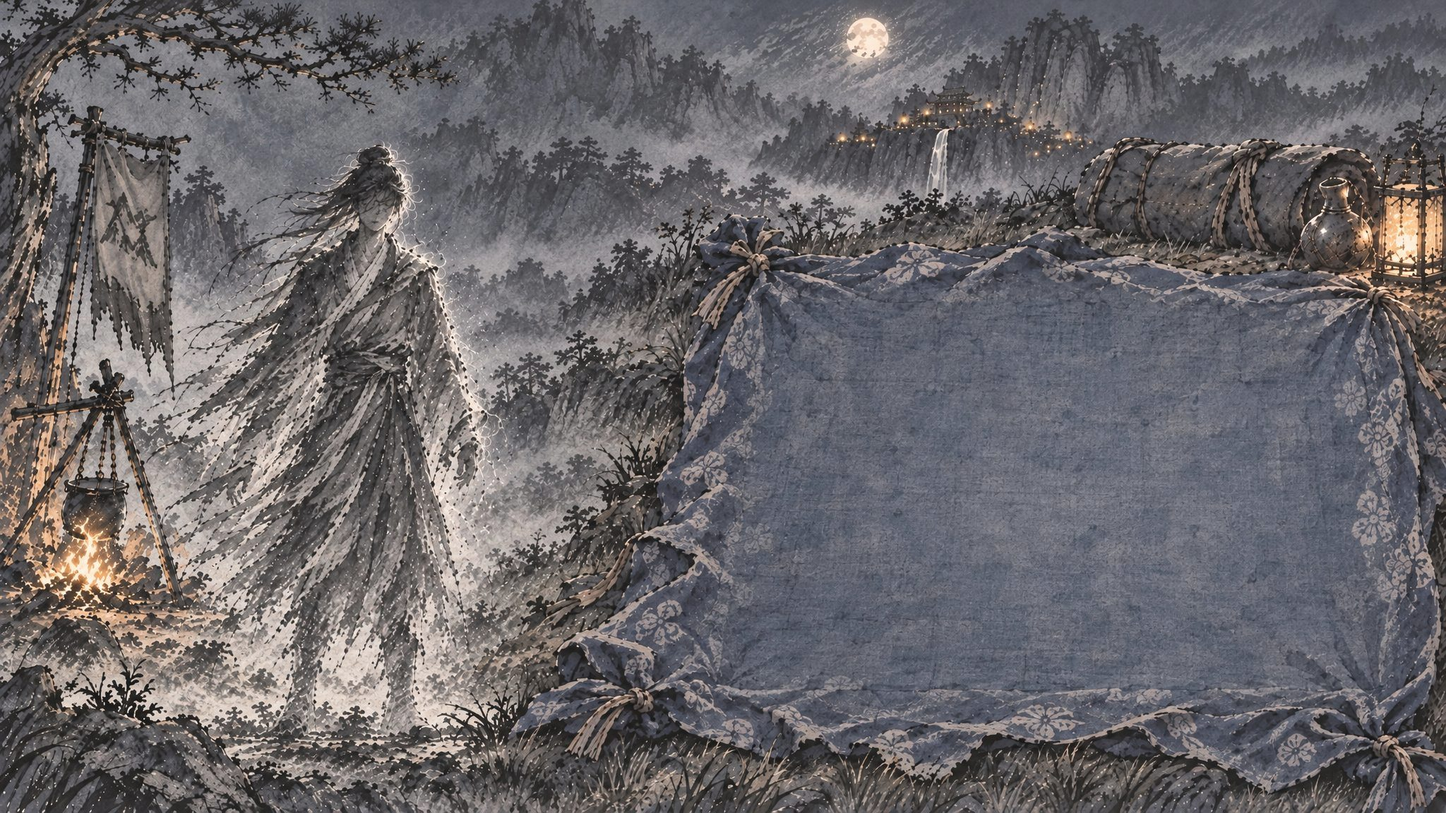
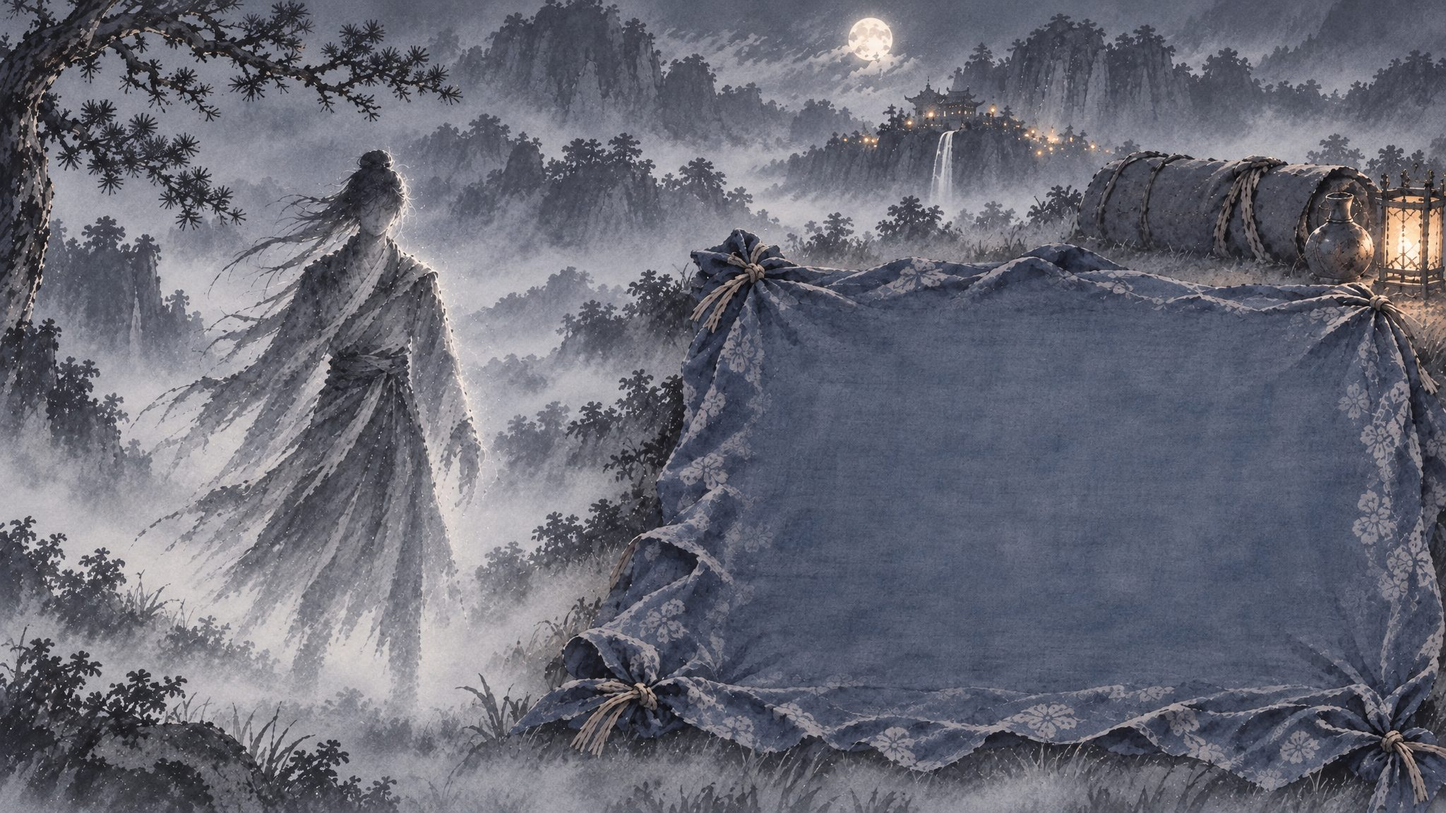
docs(bag-wugong): 原型第三版——雾气留白底图、收敛叠加元素，附据点门派重绘样张

diff --git a/docs/design/bag-wugong-prototype.html b/docs/design/bag-wugong-prototype.html
@@ -51,8 +51,8 @@ button { font: inherit; color: inherit; }
 .scene.off { opacity: 0; pointer-events: none; visibility: hidden; }
 .pic { position: absolute; left: var(--pl); top: var(--pt); width: var(--pw); aspect-ratio: 16 / 9; }
 .pic > .bg { position: absolute; left: 0; right: 0; top: -38.89%; height: 177.78%; background: center / 100% 100% no-repeat; }
-.vig { position: absolute; inset: 0; pointer-events: none; box-shadow: inset 0 0 90px 30px #0b0d12;
-  background: linear-gradient(to bottom, oklch(0.1 0.01 262 / .8), transparent 22%); }
+.vig { position: absolute; inset: 0; pointer-events: none; box-shadow: inset 0 0 60px 10px oklch(0.1 0.01 262 / .7);
+  background: linear-gradient(to bottom, oklch(0.1 0.01 262 / .45), transparent 16%); }
 .head { position: absolute; left: 44px; right: 44px; top: 26px; z-index: 5; display: flex; align-items: flex-start; pointer-events: none; }
 .head > * { pointer-events: auto; }
 .head h1 { margin: 0; font-family: var(--font-display); font-size: 34px; letter-spacing: .24em; font-weight: 700; text-shadow: 0 2px 14px #000; }
@@ -91,14 +91,14 @@ button { font: inherit; color: inherit; }
 .wsum b { color: var(--ink); font-weight: 600; margin-left: 3px; }
 
 .cloth { position: absolute; display: grid; grid-auto-flow: dense; }
-.cloth .cell { border: 1px dashed oklch(0.88 0.02 240 / .22); border-radius: 2px; margin: 1px; }
+.cloth .cell { background: oklch(0.9 0.02 240 / .05); border-radius: 2px; margin: 1px; }
 .cloth .it { position: relative; margin: 1px; border: 0; padding: 0; cursor: pointer; border-radius: 3px;
-  background: linear-gradient(to top, color-mix(in oklch, var(--gc) 26%, transparent), transparent 60%), oklch(0.14 0.02 255 / .72);
-  box-shadow: inset 0 0 0 1.5px color-mix(in oklch, var(--gc) 80%, transparent); transition: transform .15s var(--ease), box-shadow .15s; }
+  background: linear-gradient(to top, color-mix(in oklch, var(--gc) 18%, transparent), transparent 55%), oklch(0.2 0.02 255 / .45);
+  box-shadow: inset 0 0 0 1px color-mix(in oklch, var(--gc) 75%, transparent); transition: transform .15s var(--ease), box-shadow .15s; }
 .cloth .it img { position: absolute; inset: 6%; width: 88%; height: 88%; object-fit: contain; filter: drop-shadow(0 2px 3px #000); }
-.cloth .it.g1 { box-shadow: inset 0 0 0 1px oklch(0.7 0.012 262 / .45); background: oklch(0.14 0.02 255 / .6); }
+.cloth .it.g1 { box-shadow: none; background: oklch(0.2 0.02 255 / .35); }
 .cloth .it.g1 img { opacity: .78; }
-.cloth .it.g5 { box-shadow: inset 0 0 0 1.5px var(--gc), 0 0 10px color-mix(in oklch, var(--gc) 55%, transparent); }
+.cloth .it.g5 { box-shadow: inset 0 0 0 1.5px var(--gc); }
 .cloth .it:hover, .cloth .it.sel { transform: translateY(-2px); box-shadow: inset 0 0 0 1.5px var(--gc), 0 0 0 1.5px var(--gold), 0 6px 14px #000; z-index: 2; }
 .cloth .it .fresh { position: absolute; left: 4px; top: 4px; width: 6px; height: 6px; border-radius: 50%; background: var(--gold); box-shadow: 0 0 6px var(--gold); }
 .cloth .it .up { position: absolute; right: 3px; top: 1px; font-size: 10px; color: oklch(0.8 0.14 145); text-shadow: 0 0 3px #000; }
@@ -131,11 +131,11 @@ button { font: inherit; color: inherit; }
 /* ═══════════ 武功：崖洞壁刻 · 拓片 · 石印 ═══════════ */
 /* 石柱分类：AI 墨笔图标落在 AI 画好的空白石盘上；没有藏书的类别置灰不可点 */
 .med { position: absolute; transform: translate(-50%, -50%); width: calc(var(--pw) * .042); aspect-ratio: 1; border: 0; border-radius: 50%; background: none; cursor: pointer; padding: 0; display: grid; place-items: center; }
-.med img { width: 62%; height: 62%; object-fit: contain; filter: invert(1) brightness(.95) drop-shadow(0 1px 1px #000) drop-shadow(0 0 2px #000) drop-shadow(0 0 4px #000); opacity: 1; transition: transform .2s var(--ease); }
+.med img { width: 62%; height: 62%; object-fit: contain; filter: drop-shadow(0 1px 0 oklch(0.95 0.01 262 / .6)); opacity: .82; transition: transform .2s var(--ease); }
 .med:hover:not(:disabled) img { transform: scale(1.08); }
 .med.on { box-shadow: 0 0 0 1.5px oklch(0.75 0.075 76 / .75), 0 0 12px oklch(0.75 0.075 76 / .35); }
-.med.on img { filter: invert(.82) sepia(1) saturate(1.3) hue-rotate(-12deg) drop-shadow(0 1px 1px #000); opacity: 1; }
-.med:disabled { cursor: not-allowed; } .med:disabled img { filter: brightness(0) drop-shadow(0 1px 0 oklch(0.85 0.01 262 / .5)); opacity: .45; }
+.med.on img { filter: invert(.38) sepia(1) saturate(1.8) hue-rotate(-12deg); opacity: 1; }
+.med:disabled { cursor: not-allowed; } .med:disabled img { filter: none; opacity: .28; }
 .med:focus-visible { outline: 1.5px solid var(--gold); outline-offset: 2px; }
 
 /* 壁刻：AI 画的空白石板上刻这一类的各门武学；招式像为 AI 墨线，滤镜调成阴刻 / 鎏金 / 风化 */
@@ -143,15 +143,15 @@ button { font: inherit; color: inherit; }
   display: flex; flex-direction: column; align-items: center; }
 .panel .nm { font-family: var(--font-display); font-weight: 700; font-size: clamp(12px, calc(var(--pw) * .0102), 15px); letter-spacing: .06em; white-space: nowrap; margin-top: 4%;
   color: oklch(0.22 0.01 262 / .9); text-shadow: 0 1px 0 oklch(0.82 0.01 262 / .45), 0 -1px 0 oklch(0.05 0.01 262 / .7); }
-.panel img { flex: 1; min-height: 0; max-width: 78%; object-fit: contain; margin: 3% 0 6%; opacity: .62;
+.panel img { flex: 1; min-height: 0; max-width: 78%; object-fit: contain; margin: 3% 0 6%; opacity: .55;
   filter: brightness(0) drop-shadow(0 1px 0 oklch(0.8 0.01 262 / .5)); transition: transform .25s var(--ease); }
 .panel { border-radius: 3px; }
 /* 品质靠颜色：上乘石青、绝学朱砂，名字与石板内缘一线同色；寻常不着色 */
 .panel.q2 { box-shadow: inset 0 0 0 1.5px oklch(0.62 0.09 230 / .75); } .panel.q2 .nm { color: oklch(0.36 0.1 235); }
 .panel.q3 { box-shadow: inset 0 0 0 1.5px oklch(0.55 0.15 32 / .8); } .panel.q3 .nm { color: oklch(0.42 0.15 30); }
 /* 已装配：墨金描出招式像，不发光 */
-.panel.on img { opacity: 1; filter: brightness(0) invert(.62) sepia(.9) saturate(1.1) hue-rotate(-10deg) drop-shadow(0 1px 0 #000); }
-.panel.on .nm::after { content: ''; display: block; width: 60%; height: 1.5px; margin: 2px auto 0; background: oklch(0.6 0.08 75); }
+.panel.on img { opacity: 1; filter: brightness(0) invert(.42) sepia(1) saturate(1.6) hue-rotate(-12deg); }
+.panel.on .nm { color: oklch(0.42 0.09 70); } .panel.on .nm::after { content: ''; display: block; width: 60%; height: 1.5px; margin: 2px auto 0; background: oklch(0.5 0.09 70); }
 .panel.ghost img { opacity: .25; filter: brightness(0) blur(1.2px); }
 .panel.ghost .nm { opacity: .55; }
 .panel.sel { outline: 2px solid oklch(0.75 0.075 76 / .8); outline-offset: 1px; }

diff --git a/docs/design/concepts/restyle-samples.html b/docs/design/concepts/restyle-samples.html
@@ -1,0 +1,6 @@
+<!doctype html><html lang="zh"><head><meta charset="utf-8"><title>据点与门派重绘样张</title>
+<style>body{margin:0;background:#0d0f14;color:#e6e1d6;font:15px/1.7 "LXGW WenKai","PingFang SC",sans-serif;padding:32px 40px}
+h1{font-size:22px;letter-spacing:.2em;font-family:"Noto Serif SC",serif;margin:0 0 6px}img{width:100%;max-width:1400px;display:block}p{color:#9a958a}</style></head><body>
+<h1>据点场景 · 门派 重绘样张（左原图，右重绘）</h1>
+<p>自上而下：战斗据点 苍崖剑坊、秦淮画舫；门派内景 百物堂；门派驻地 苍崖派。以武功页洞口外那块画为风格参考，用原图图生图，构图与位置不变。</p>
+<img src="restyle-samples.jpg"></body></html>

diff --git a/changelog.d/feature-bag-wugong-redesign.md b/changelog.d/feature-bag-wugong-redesign.md
@@ -2,3 +2,4 @@
 
 - **行囊与武功改版原型**：`docs/design/bag-wugong-prototype.html`。行囊为雾中人影 + 蓝印花布包袱（人影四处挂点引出穿戴，布面上形态格，点物件出布贴纸签）；武功为崖洞石壁（石柱分类、壁刻各门武学、拓片写详情与招式、石印装配）。方向挑选页 `docs/design/concepts/bag-wugong-pick*.html`、`bag-pick-4.html`；素材 `art/xingnang/`、`art/wugong/`（底图与上下续画版、纸签、拓片、石印、十个招式像）。
 - **原型第二版**：两页底图提亮为淡墨；武功石柱改 AI 墨笔类别图标（无藏书置灰不可点）、壁刻品质改用石青 / 朱砂描边与名字色、已装配改墨金不发光、每类四张招式像按武学分配、拓片名字随品质着色、特效带图标、招式效果整行不截断、熟练改写档名（圆满盖朱印）、装配与穿戴 / 卖出改 AI 笔刷按钮、石印名加墨底；行囊穿戴改两左两右、属性合计横排垫晕墨。
+- **原型第三版**：两页底图以武功页洞口外那块画为风格参考重绘（雾气留白、平滑灰阶，去掉满屏碎石纹与草地纹理，行囊去掉营火与旗杆），布局与坐标不变；背包空格只留极淡底、品阶线收细、极品不发光；武功分类图标与壁刻名改深墨落在淡石上。附据点场景与门派图重绘样张 `docs/design/concepts/restyle-samples.html`。
